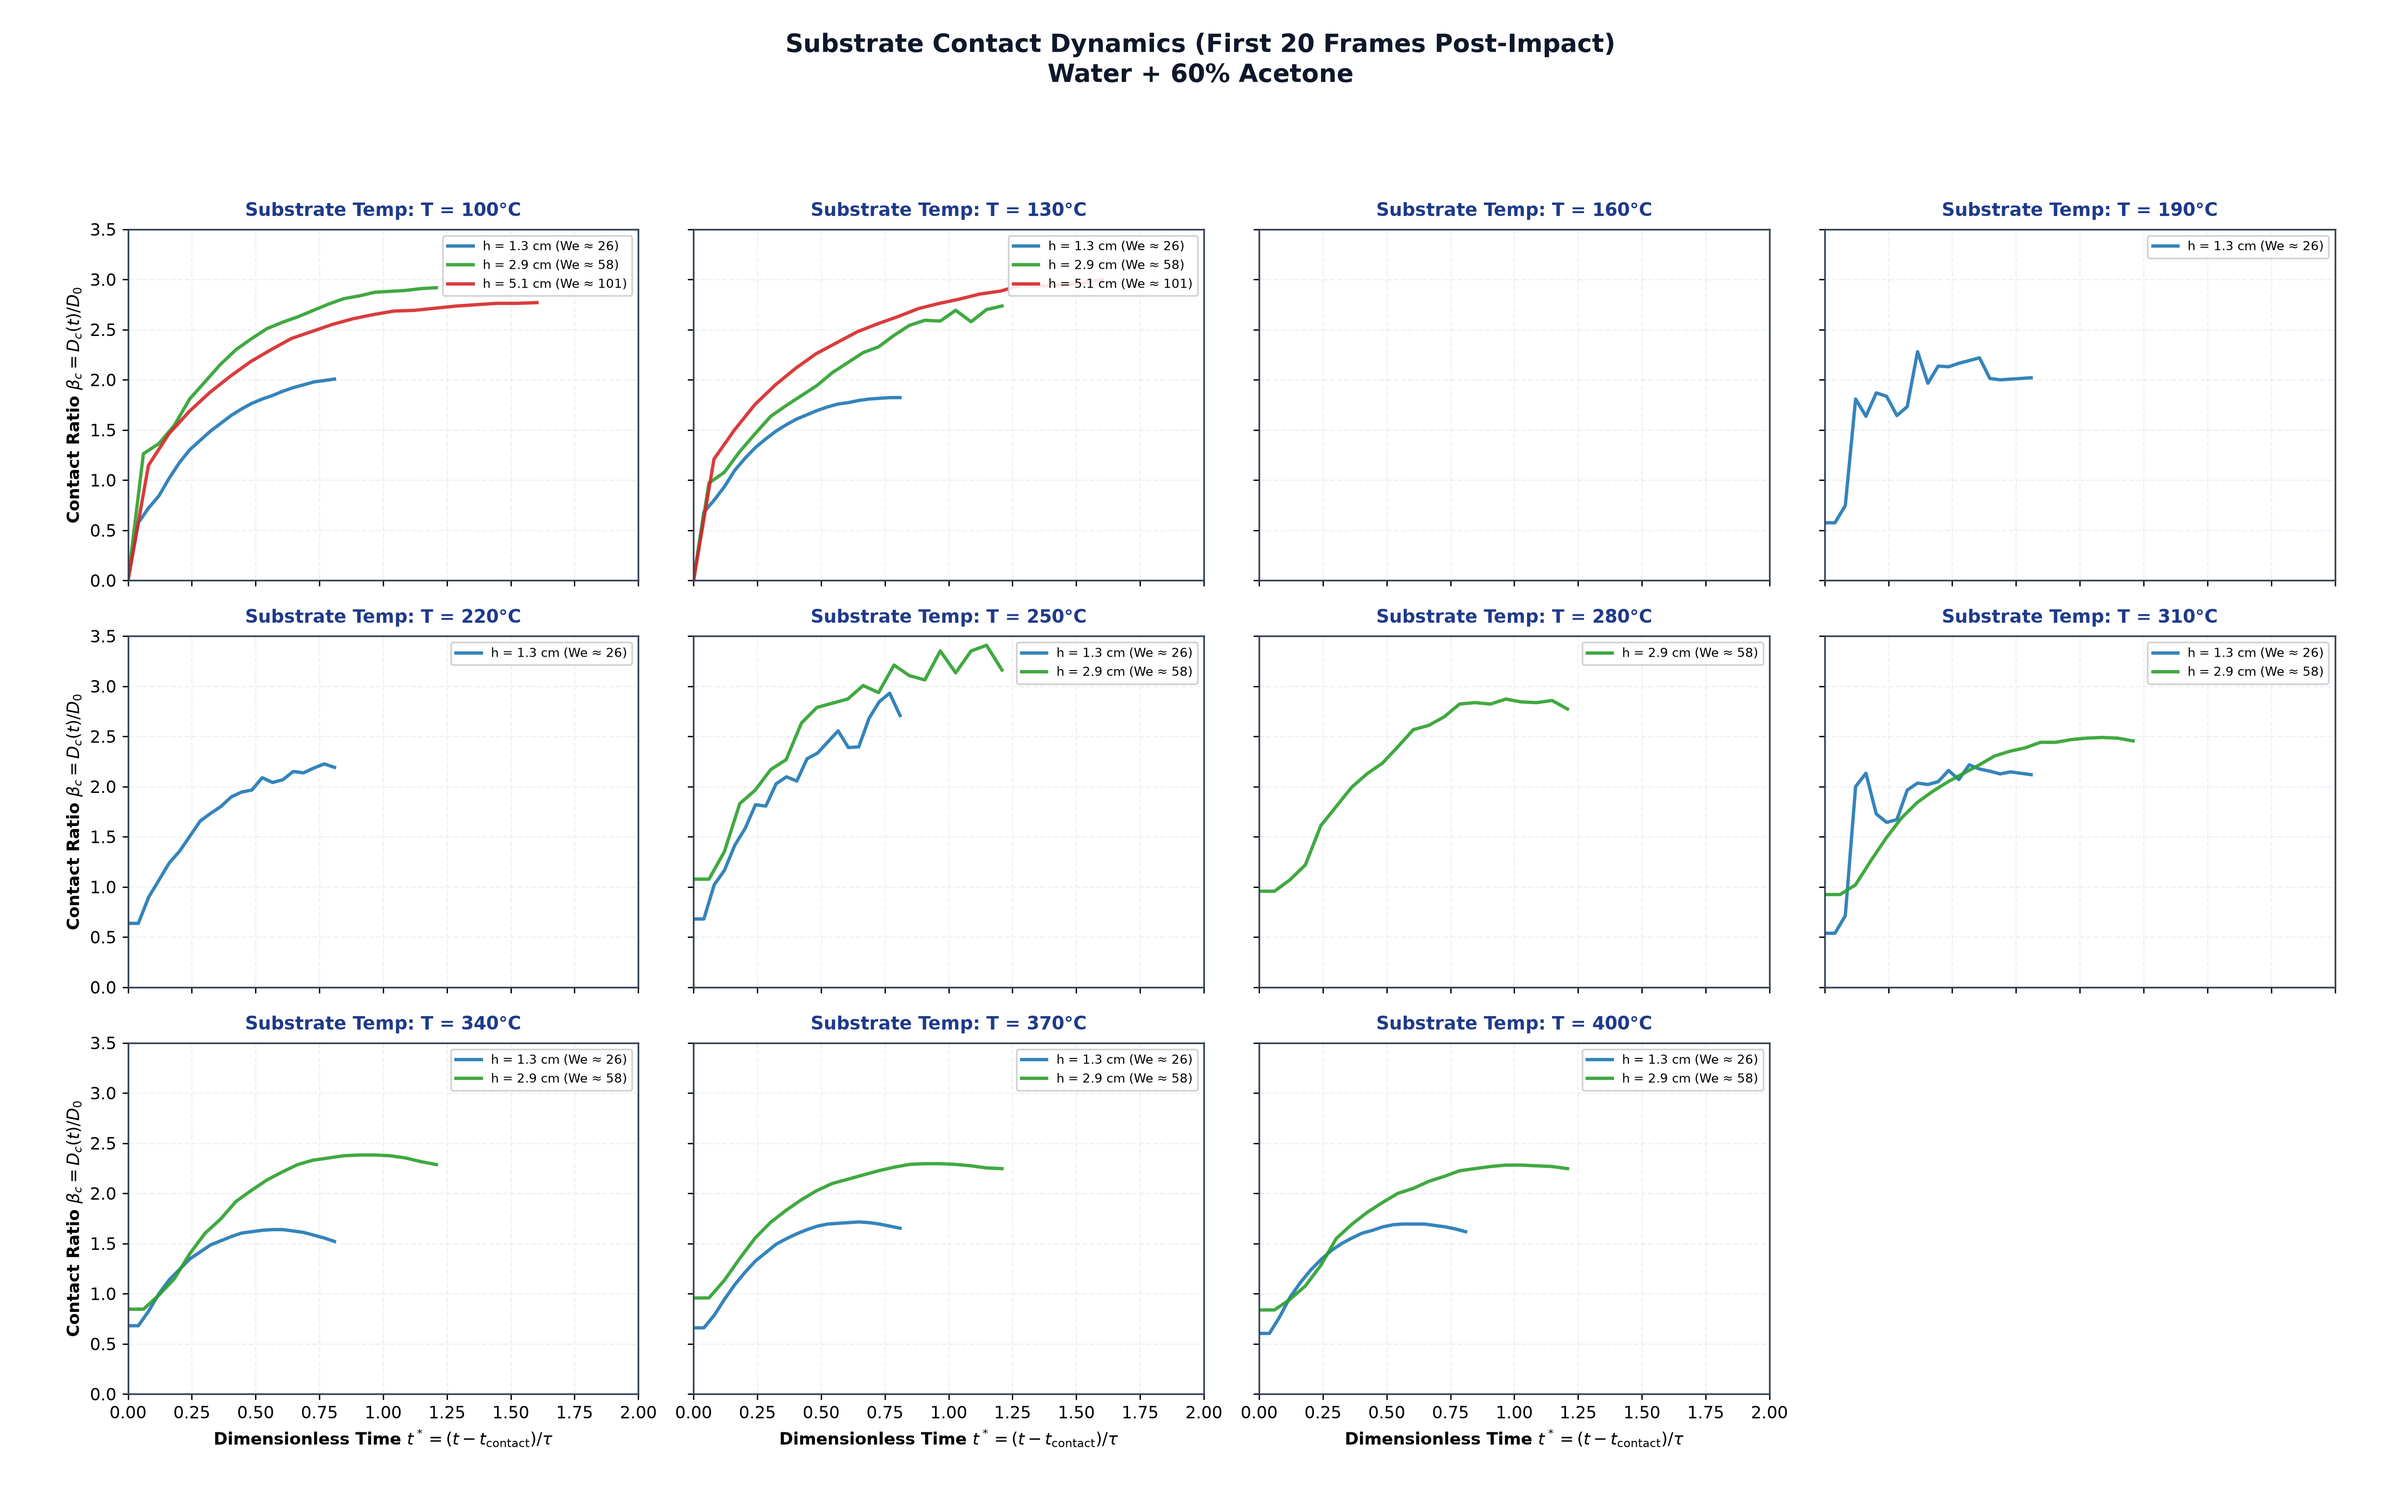
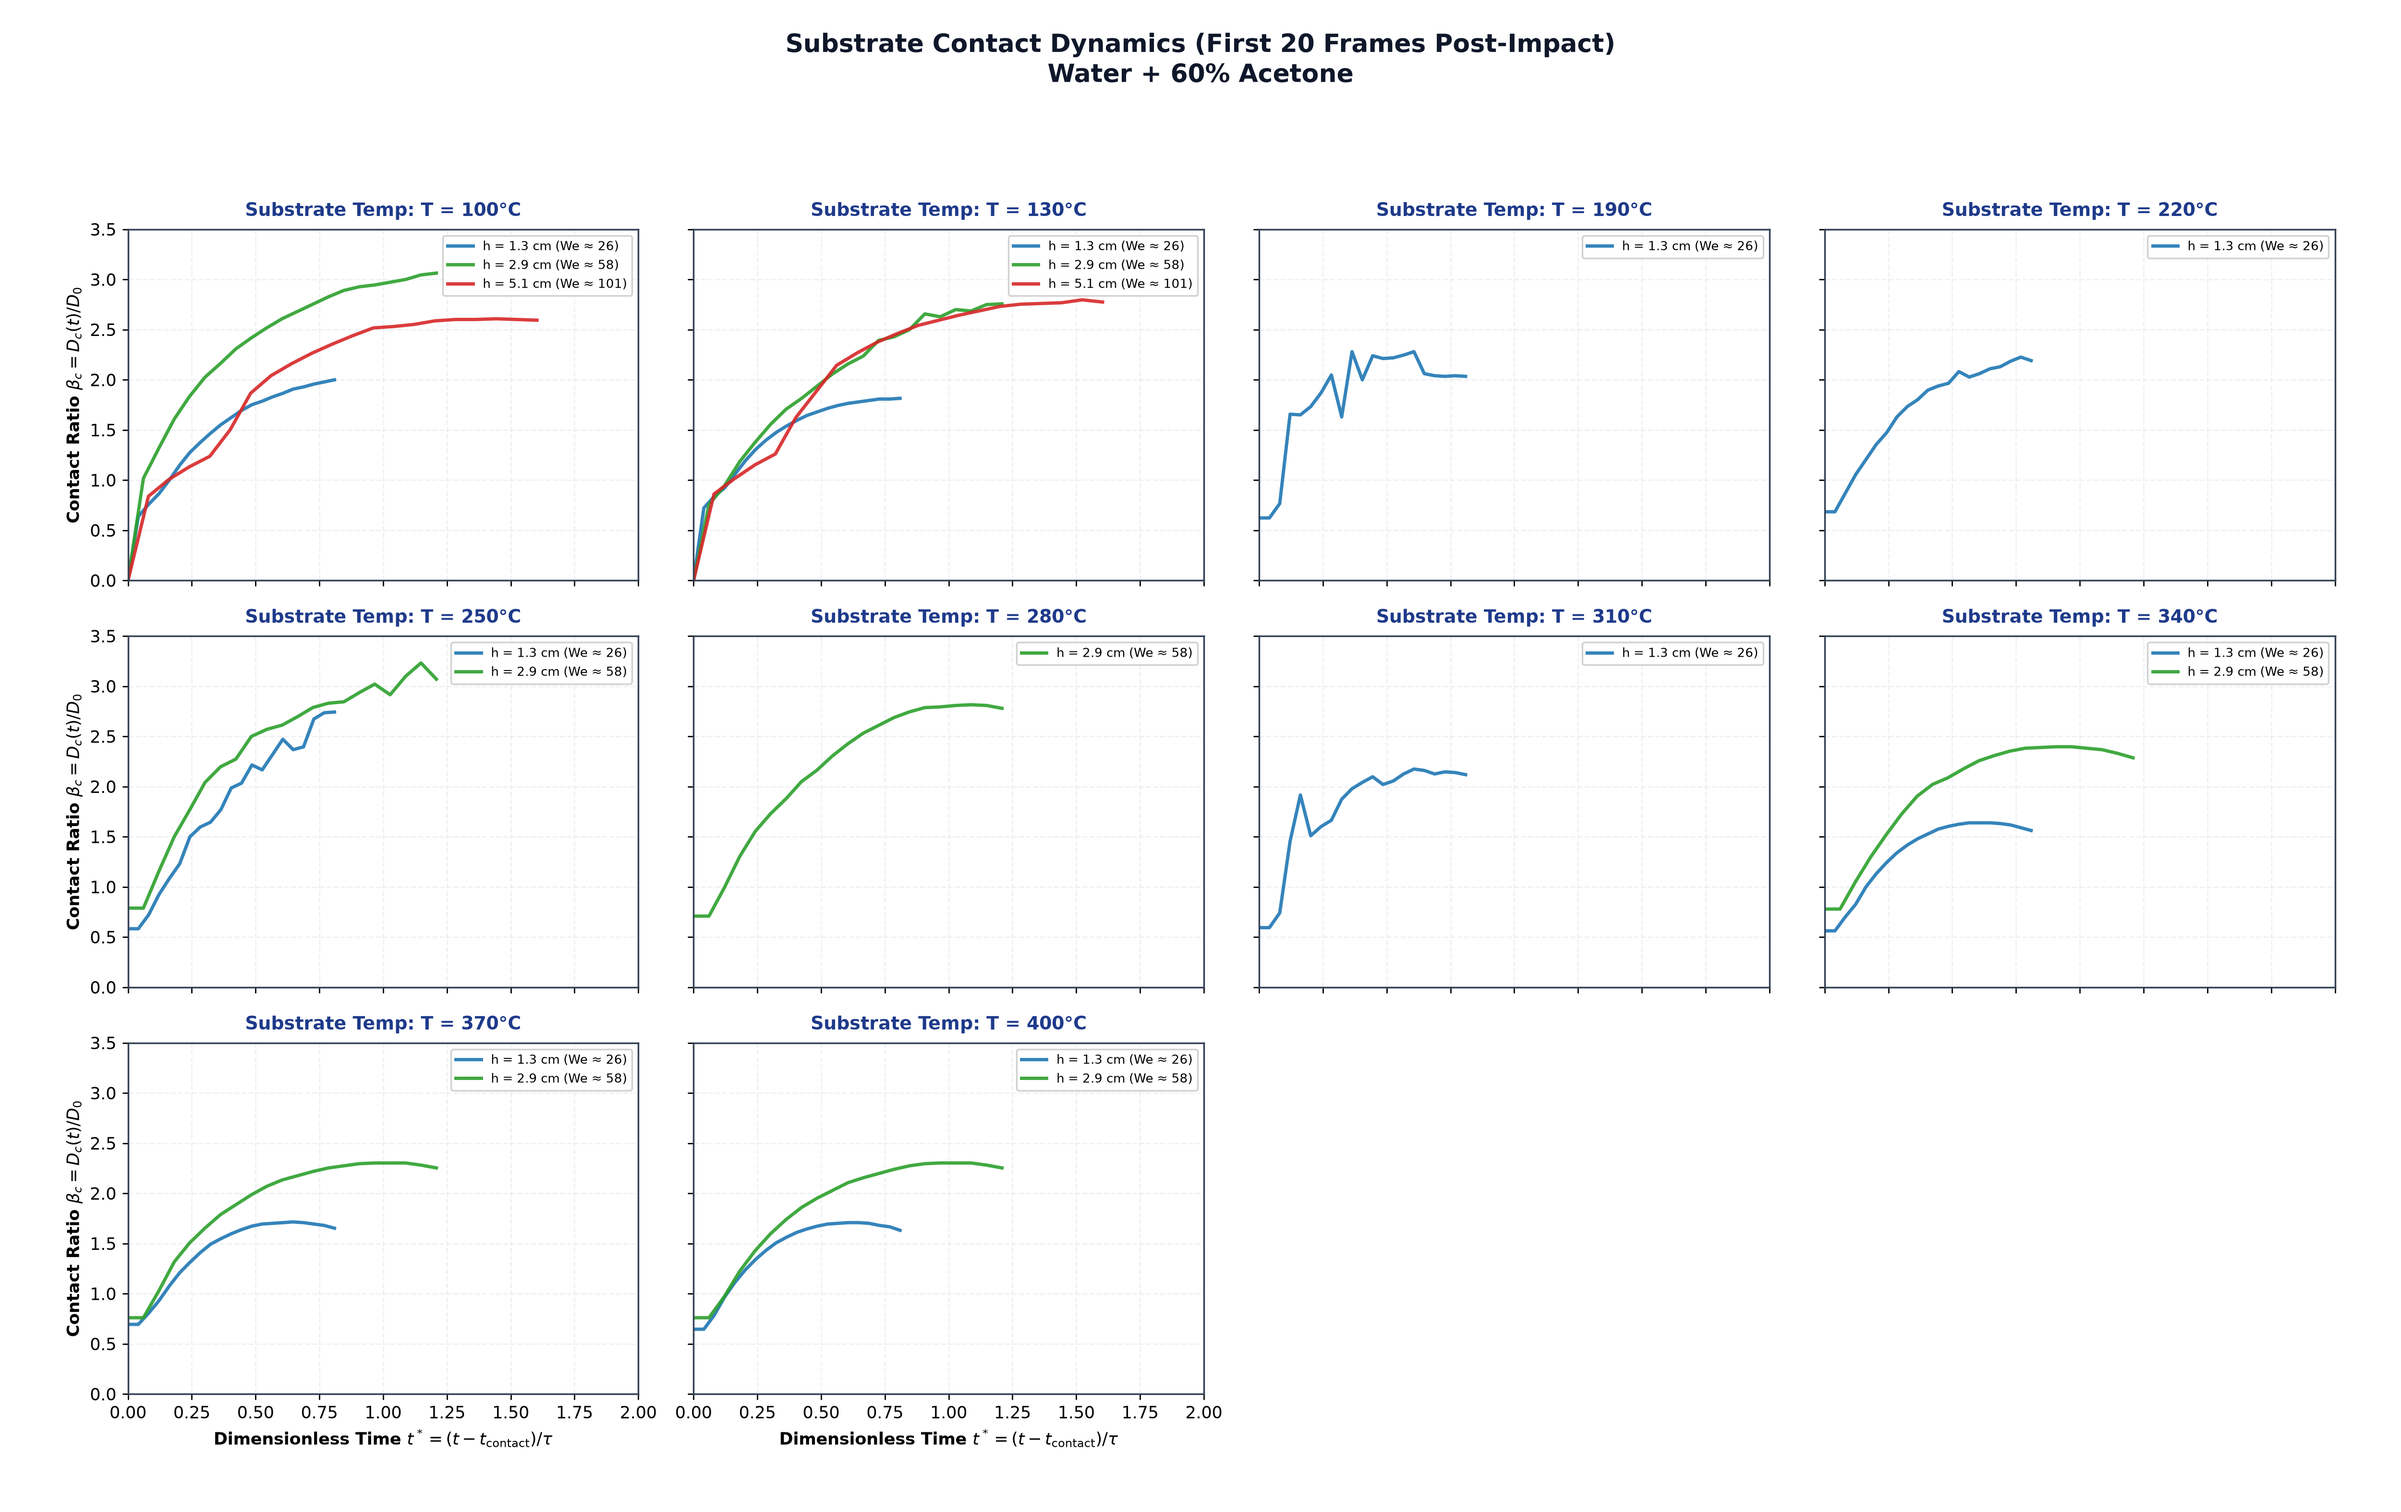
Rectify substrate baselines to eliminate reflection tracking in 20.5cm, 25.8cm, and 8.0cm

diff --git a/rectify_all_60acetone.py b/rectify_all_60acetone.py
@@ -40,28 +40,23 @@ Y_TOP_CUT = 135
 def get_calibrated_y_contact(height_folder, temp_c=None):
     temp = float(temp_c) if temp_c is not None else 100.0
     if "25.8" in height_folder:
-        return 554
+        return 533
     elif "20.5" in height_folder:
-        return 543
+        return 527
     elif "15.6" in height_folder:
-        return 571
+        return 562
     elif "11.5" in height_folder:
-        return 584
+        return 581
     elif "1.3" in height_folder:
-        return 683
+        return 680
     elif "2.9" in height_folder:
-        return 711
+        return 685
     elif "5.1" in height_folder:
-        return 691
+        return 678
     elif height_folder.endswith("_8cm") or height_folder.endswith(" 8cm") or "_8cm" in height_folder:
-        if temp <= 100:
-            return 682
-        elif temp <= 250:
-            return 650
-        else:
-            return 644
+        return 645 if temp <= 250 else 642
     else:
-        return 584
+        return 581
 
 def detect_case_t0(files, bg, y_c, y_top_cut=135):
     """
